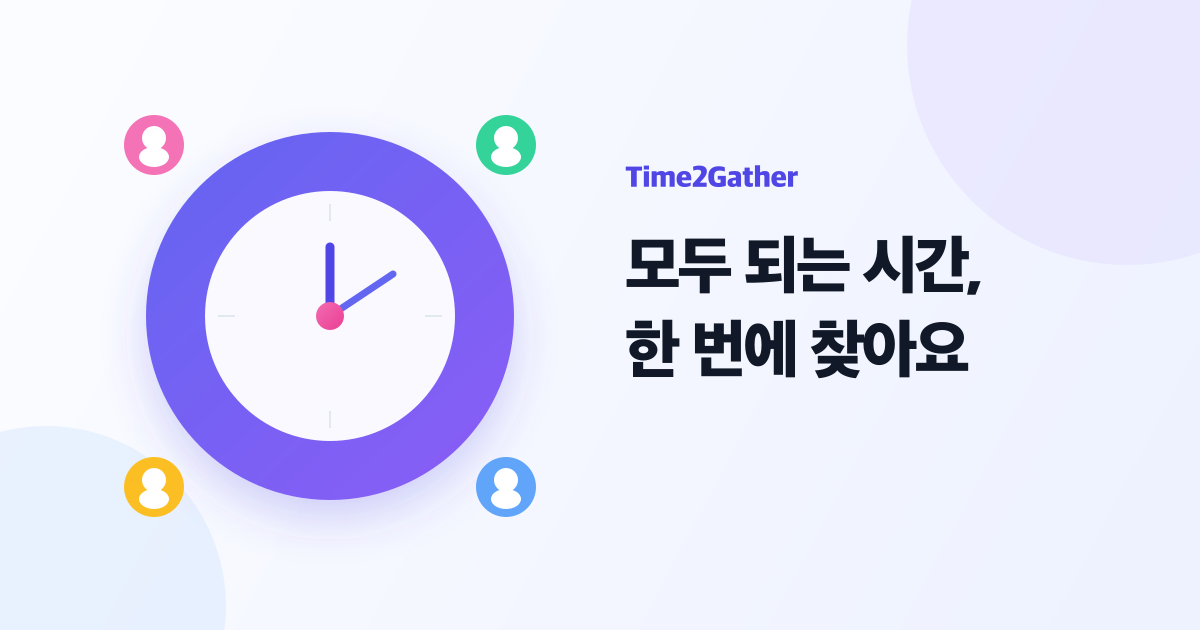
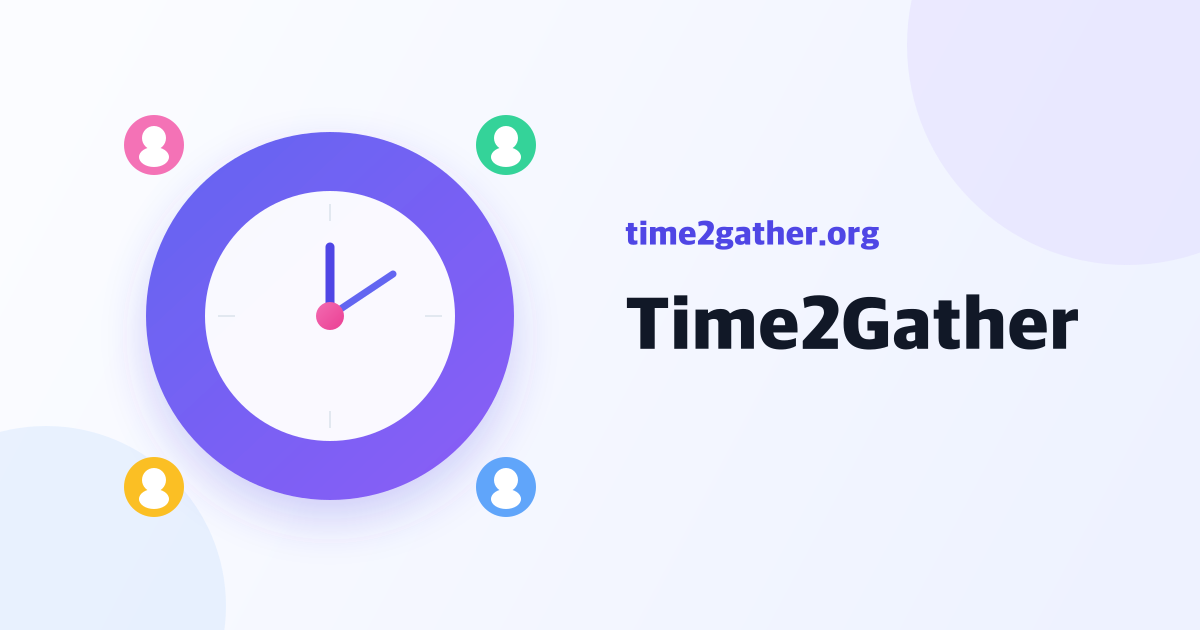
fix: 다국어 UI와 공유 이미지 정리

Changed region(s): [[0.5242, 0.3317, 0.8942, 0.6032], [0.5242, 0.2413, 0.6783, 0.3016]]

diff --git a/src/components/Monthly/Monthly.tsx b/src/components/Monthly/Monthly.tsx
@@ -138,14 +138,18 @@ export default function Monthly ({
 
   // Format date based on locale
   const formatMonthYear = (date: dayjs.Dayjs) => {
+    const localizedDate = date.locale(locale === 'ko' ? 'ko' : 'en')
     if (locale === 'ko') {
-      return date.format('YYYY년 MM월')
+      return localizedDate.format('YYYY년 MM월')
     } else {
-      return date.format('MMMM YYYY')
+      return localizedDate.format('MMMM YYYY')
     }
   }
 
-  const formatMonth = (date: dayjs.Dayjs) => locale === 'ko' ? date.format('M월') : date.format('MMM')
+  const formatMonth = (date: dayjs.Dayjs) => {
+    const localizedDate = date.locale(locale === 'ko' ? 'ko' : 'en')
+    return locale === 'ko' ? localizedDate.format('M월') : localizedDate.format('MMM')
+  }
 
   return (
     <div className={styles.container}>
@@ -155,7 +159,7 @@ export default function Monthly ({
           onClick={handlePreviousMonth}
           disabled={isPreviousDisabled}
           className={isPreviousDisabled ? styles.disabled : ''}
-          aria-label={locale === 'ko' ? '이전 달' : 'Previous month'}
+          aria-label={t('meeting.dateCalendar.previousMonth')}
         >
           <HiChevronLeft />
         </button>
@@ -165,7 +169,7 @@ export default function Monthly ({
           onClick={handleNextMonth}
           disabled={isNextDisabled}
           className={isNextDisabled ? styles.disabled : ''}
-          aria-label={locale === 'ko' ? '다음 달' : 'Next month'}
+          aria-label={t('meeting.dateCalendar.nextMonth')}
         >
           <HiChevronRight />
         </button>

diff --git a/src/components/Header/Header.tsx b/src/components/Header/Header.tsx
@@ -15,6 +15,8 @@ export default function Header () {
   const [isMobileMenuOpen, setIsMobileMenuOpen] = useState(false)
   const { t, locale } = useTranslation()
   const me = useStore($me)
+  const nextLocale = locale === 'ko' ? 'en' : 'ko'
+  const languageButtonLabel = t(nextLocale === 'ko' ? 'common.switchToKorean' : 'common.switchToEnglish')
 
   const toggleMobileMenu = () => {
     setIsMobileMenuOpen(!isMobileMenuOpen)
@@ -110,8 +112,8 @@ export default function Header () {
             </a>
             <button
               className={styles.localeButton}
-              onClick={() => handleLocaleChange(locale === 'ko' ? 'en' : 'ko')}
-              aria-label='한국어'
+              onClick={() => handleLocaleChange(nextLocale)}
+              aria-label={languageButtonLabel}
             >
               {locale === 'ko' ? 'A' : '가'}
             </button>
@@ -166,8 +168,8 @@ export default function Header () {
             <div className={styles.mobileNavBottomContents}>
               <button
                 className={styles.mobileNavBottomItem}
-                onClick={() => handleLocaleChange(locale === 'ko' ? 'en' : 'ko')}
-                aria-label='한국어'
+                onClick={() => handleLocaleChange(nextLocale)}
+                aria-label={languageButtonLabel}
               >
                 <GlobeIcon width={27} height={27} />
                 <span>{locale === 'ko' ? 'English' : '한국어'}</span>

diff --git a/src/utils/api.ts b/src/utils/api.ts
@@ -1,7 +1,8 @@
-import axios, { AxiosError } from 'axios'
+import axios, { type AxiosError } from 'axios'
 import { $me } from '../stores/me'
 import { showCautionToast } from '../stores/toast'
 import type { error_response } from '../services/type'
+import { getLocaleFromContext, getTranslations } from '../i18n'
 
 const api = axios.create({
   withCredentials: true,
@@ -20,8 +21,9 @@ api.interceptors.response.use(
     if (checkIsAuthError(error)) {
       $me.set(null)
     } else {
+      const t = getTranslations(getLocaleFromContext())
       showCautionToast({
-        message: error.response.data.message || error.response.data.error || '문제가 발생했습니다. 잠시후 다시 시도해주세요.',
+        message: error.response?.data?.message || error.response?.data?.error || t('common.error'),
       })
     }
     return Promise.reject(error)

diff --git a/src/components/Monthly/MonthlyGrid.tsx b/src/components/Monthly/MonthlyGrid.tsx
@@ -107,7 +107,7 @@ export default function MonthlyGrid ({
 
   // 요일 헤더 생성 (0=일요일부터 6=토요일까지)
   const weekdays = Array.from({ length: 7 }, (_, i) => {
-    const day = dayjs().day(i)
+    const day = dayjs().locale(locale === 'ko' ? 'ko' : 'en').day(i)
     return {
       number: i,
       name: day.format('ddd'), // 한국어 축약형 요일 (일, 월, 화, 수, 목, 금, 토)

diff --git a/src/components/Select/Select.tsx b/src/components/Select/Select.tsx
@@ -10,7 +10,7 @@ import styles from './Select.module.scss'
 
 export const Select = ({ text, options, value, setValue }: { text: string, options: string[], value: string, setValue: (value: string) => void }) => (
   <SelectRa.Root value={value} onValueChange={setValue}>
-    <SelectRa.Trigger className={styles.Trigger} aria-label='Food'>
+    <SelectRa.Trigger className={styles.Trigger} aria-label={text}>
       <SelectRa.Value placeholder={text} />
       <SelectRa.Icon className={styles.Icon}>
         <ChevronDownIcon />

diff --git a/src/utils/kakaoShare.ts b/src/utils/kakaoShare.ts
@@ -58,7 +58,7 @@ export function shareToKakao (params: ShareToKakaoParams): boolean {
     imageWidth = 1200,
     imageHeight = 630,
     url,
-    buttonTitle = '투표하러 가기',
+    buttonTitle = 'Time2Gather',
   } = params
 
   if (typeof window === 'undefined') {